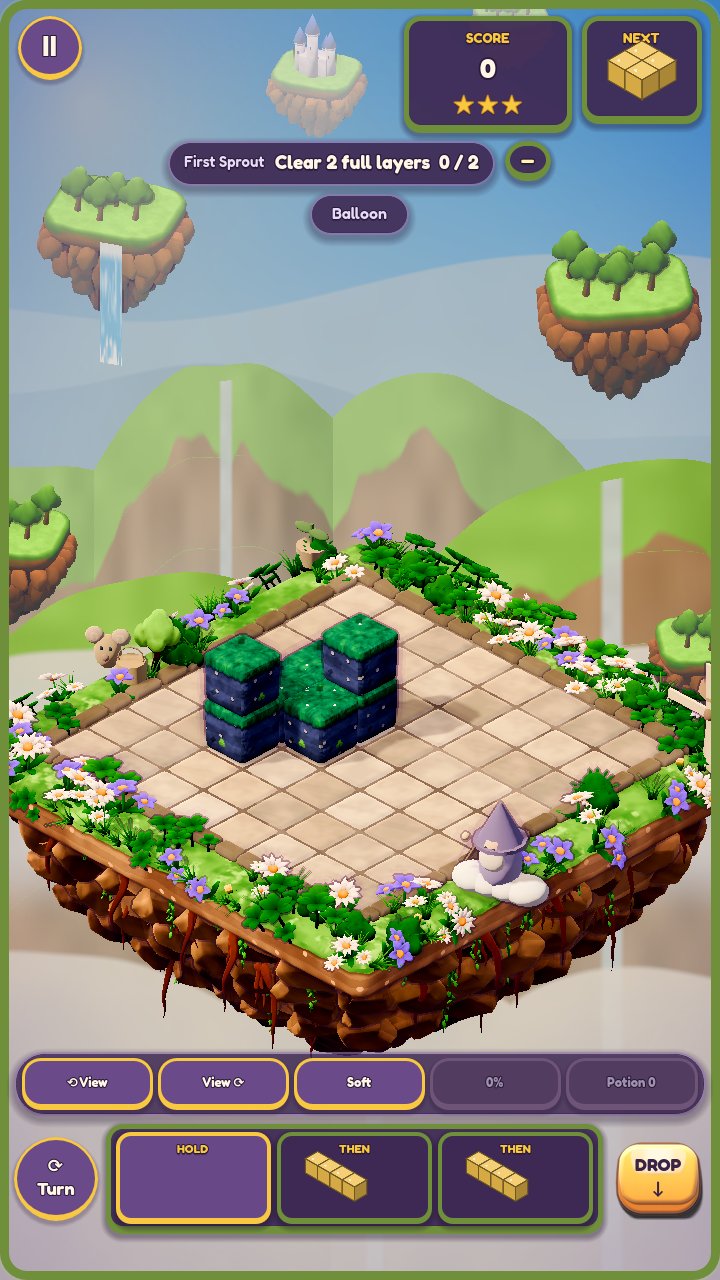
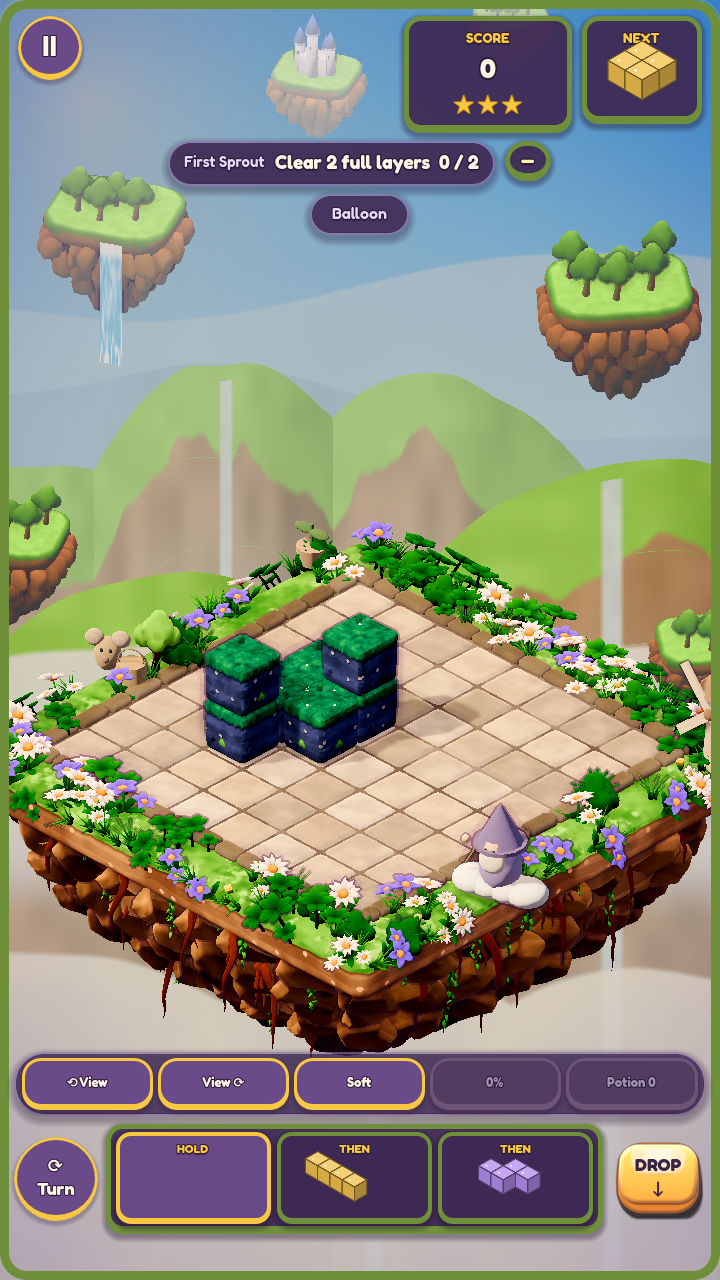
docs(minigames): party-game rules for minigames and level phases
3-second teach, standard controls with at most one extra verb, built on
stacking, scene arenas, 1v3 balance numbers, handicaps, a shared seeded
bag, rotating verbs; plus architecture rules (data templates,
tournament state outside the minigame, dynamic input routing,
background loading, a single group camera). Linked from the plan.

Story: user request 2026-10-14 (/godot-genre-party)

Claude-Session: https://claude.ai/code/session_015gA98JmmjSJ5ZLv762bPy3

diff --git a/design/narrative/campaign-story.md b/design/narrative/campaign-story.md
@@ -33,7 +33,7 @@ the next piece waits at the brim). His showy hands cannot place them true. You c
 
 **Why the order matters.** Huffle's huff blew the Keystones outward in a spiral, nearest first. Each Keystone you set hums one
 more note of the **Sky Lullaby** and its Tether points to the next island. The order is Meadow to Carnival because that is the
-order the wind dropped them, and because Huffle's own lullaby is the last note.
+order the wind dropped them (Pirate Cove, flung farthest out to sea, is eleventh), and because Huffle's own lullaby is the last note.
 
 **Why it is not an errand quest.** Every chapter has its own villain with a stacking problem, a local ally and a feeling. The
 Keystone is a payoff, never the plot of a level.
@@ -44,14 +44,15 @@ Keystone is a payoff, never the plot of a level.
 
 | Ch | Beat |
 |---|---|
-| 1-5 | Cheery. Blames "a sneeze" and fake-sneezes on cue. Tries to put his own star on every tower; the allies' marks win instead. |
+| 1-4 | Cheery. Blames "a sneeze" and fake-sneezes on cue. Tries to put his own star on every tower; the allies' marks win instead. |
 | 3 | Sir Shiver still guards the gate on an old order the Wizard forgot he gave. The first sign: someone is waiting for him. |
-| 5 | Meets his twin in vanity, Captain Bea, and they race for the tallest lookout. |
-| 6 | Midpoint reversal. His hat fails Bram in the crisis, and the heroes find his star stamped into the forge anvil. The sneeze story cracks. |
-| 7 | Campfire confession in the treehouse: the tower, the shooing, the lie. The heroes forgive him, wordlessly. |
-| 9 | Tries a rewind spell on Madame Cuckoo's clock. It breaks the tower clock and he slips off, ashamed, to talk to Huffle alone. |
-| 10 | Absent. The loss beat. He left his hat on the tram seat. |
-| 11 | Returns, gets shooed again, and finally listens: the baby rattle that fell from his hat is the first thing Huffle smiles at. |
+| 5 | Lava, the midpoint reversal. His hat fails Bram in the crisis, and the heroes find his star stamped into the forge anvil. The sneeze story cracks. |
+| 6 | Forest: campfire confession in the treehouse: the tower, the shooing, the lie. The heroes forgive him, wordlessly. |
+| 7 | Cave: stays with Ada and Bram on the far side of the cave-in, holding a lantern and trying to be useful. His kazoo wakes the bats. |
+| 8 | Clockwork: tries a rewind spell on Madame Cuckoo's clock. It breaks the tower clock and he slips off, ashamed, to talk to Huffle alone. |
+| 9 | Neon: absent. The loss beat. He left his hat on the tram seat. |
+| 10 | Celestial: returns, gets shooed again, and finally listens: the baby rattle that fell from his hat is the first thing Huffle smiles at. |
+| 11 | Pirate: humbled and funny. Face to face with Captain Bea, his vain twin, he starts to boast, stops himself, and helps build the shared lookout. |
 | 12 | Gives Huffle the promised gift, lets someone else ride his cloud, and lets the allies' marks stand on the wheel. |
 
 **The Hat Dip (visual running gag).** In each chapter the Wizard fishes in his hat for the fix and pulls out a wrong object, then
@@ -59,9 +60,9 @@ quietly drops it in the Wrong Sack tied to his cloud. The sack gets heavier. Nev
 
 | Ch | 1 | 2 | 3 | 4 | 5 | 6 | 7 | 8 | 9 | 10 | 11 | 12 |
 |---|---|---|---|---|---|---|---|---|---|---|---|---|
-| Wrong object | wooden spoon | single sock | trombone | teapot | frying pan | boot | umbrella | kazoo | alarm clock | nothing (Ada dips the left-behind hat) | baby rattle | a small star-carved block in a faded ribbon |
+| Wrong object | wooden spoon | single sock | trombone | teapot | boot | umbrella | kazoo | alarm clock | nothing (Ada dips the left-behind hat) | baby rattle | frying pan (he laughs; Tuppence wears it) | a small star-carved block in a faded ribbon |
 
-The ten wrong objects (spoon to alarm clock) and the rattle gather into the Great Heap in chapter 12. The right object, at last,
+The ten wrong objects (spoon, sock, trombone, teapot, boot, umbrella, kazoo, alarm clock, rattle, frying pan; Neon's empty hat adds none) gather into the Great Heap in chapter 12. The right object, at last,
 is the promised birthday block.
 
 ### 2.2 The heroes (each is a featured hero in 6 or more chapters)
@@ -70,7 +71,7 @@ The party travels together; "Who is there" in each beat lists who is on screen. 
 
 | Hero | Looks (art bible 5) | Arc | Featured chapters | Resolution |
 |---|---|---|---|---|
-| **Dame Ada** (knight, silver and red plume, shield) | earnest, brave, rule-follower with a soft heart; Stitch-style protector | believes a tower is held by rules and a straight line; fears one wobble means failure | **1** tutor, **3** cold and cared for, **5** cannon captain, **6** leads the rescue, **9** learns order is not stiffness, **10** low point ("I cannot hold the line"), **11** speaks to Huffle first, **12** | the final block wobbles and she laughs |
+| **Dame Ada** (knight, silver and red plume, shield) | earnest, brave, rule-follower with a soft heart; Stitch-style protector | believes a tower is held by rules and a straight line; fears one wobble means failure | **1** tutor, **3** cold and cared for, **5** leads the rescue, **8** learns order is not stiffness, **9** low point ("I cannot hold the line"), **10** speaks to Huffle first, **11** cannon captain, **12** | the final block wobbles and she laughs |
 | **Bram** (dwarf, ginger braids, steel helm, hammer) | gruff, cheerful smasher | solves things by breaking them; learns to build and to accept help | **2** bakery, **4** jellyfish, **6** trapped on the crust, **8** digs from the far side, **9** patience, **10** builds gently, **12** | builds the cake tier without his hammer |
 | **Sif** (elf, blond, green hood, slingshot) | curious, quick, a cheeky "borrower" | collects small shiny things because she never felt she belonged | **4** the pearls, **5** heist, **7** the secret treehouse, **8** alone in the dark, **10** gives a treasure away, **11** | the shelf of borrowed things becomes the Fair's prizes; she is home |
 

diff --git a/design/levels/plans/minigame-party-rules.md b/design/levels/plans/minigame-party-rules.md
@@ -1,0 +1,58 @@
+# Minigame and party rules (godot-genre-party)
+
+User, 2026-10-14: "help with making the minigames and levels, and let agents ask you questions."
+These rules apply `.claude/skills/godot-genre-party/SKILL.md` to Wacky Towers. Minigames are **building
+blocks inside campaign levels** (phases run by `ModulePhaseRunner`) and **random tournament rounds**
+(`assets/data/tournament/templates.json`: 36 minigame and 4 versus templates, run by
+`WtMinigameRound`). The phase 3 mechanics handbook and the phase 4 specs follow these rules. Agents
+ask the Godot master (see `.claude/docs/godot-master-consult.md`) when a rule doesn't fit.
+
+## Design rules
+
+1. **Short and intense.** A tournament round lasts 30 s to 2 min. A minigame phase inside a level
+   lasts 20 s to 90 s and ends with a story payoff (the bridge is done, the fort falls).
+2. **Teach in 3 seconds.** A looping preview plus one live-UI sentence of 12 words or fewer
+   ("Stack the planks before the river rises!"). No text tutorials.
+3. **Standard controls in every minigame.** The same move, rotate and drop as the core game. Accept
+   or Action is always the same button, and Back is always the same button. A minigame may add at
+   most **one** extra verb (dash, fire or grab), shown as a single gem button.
+4. **Built on stacking.** Every minigame is still about placing falling blocks; the twist is what the
+   stack does (bridge, fort wall, ammo, foothold, dam). This is pillar P2, "the stack is the answer".
+5. **A scene, not a grid.** The arena is a diorama (chasm, cliffs, mine, machine). The cast is on
+   stage, the set piece acts, and the HUD meter is themed (Heat, Fort HP, Altitude, Lava Rise,
+   Balance), as in refs 09–12, using only original names.
+6. **Asymmetric 1v3 needs balance.** The "one" gets more HP, an extra verb or a faster drop. Write
+   the offset as numbers in the template data, never "TBD".
+7. **Handicaps keep it social.** There is an optional per-player assist (slower gravity, a ghost
+   column, a longer preview), and rubber-banding uses the existing `rubber_band` params. It can be
+   turned off in competitive mode.
+8. **Fair randomness.** The piece order comes from a seeded bag that is shared by all players in a
+   round, so nobody gets a luckier queue. The seed is logged for replay.
+9. **Variety across a tournament.** A round draw never repeats the same template in a row, and it
+   rotates verbs (race, defend, build, destroy, survive).
+10. **Readability.** Each player's colour and portrait is on their stack. The NEXT preview is visible
+    for every player. Results show who did what in 3 seconds.
+
+## Architecture rules (see `docs/architecture/composition-guide.md`)
+
+- **Templates are data:** `templates.json` holds rules, params, verbs, the 1v3 offsets, the meter and
+  the scene id. No minigame-specific code paths in `main.gd`.
+- **Tournament state** (scores, round, players, devices) lives outside the minigame, in the existing
+  tournament or modes model. A minigame only emits `round_finished(results)`.
+- **Input:** players map to devices at runtime. No hard-coded joypad 0 or 1, and no "p1_*" actions
+  baked into the project. Handle `joy_connection_changed` by pausing.
+- **Loading:** load the next arena in the background while the 3-second preview plays. Keep arenas
+  light, and reuse the stage components (terrain, set-piece actor, cast actor).
+- **Shared screen first:** one camera fits all stacks (portrait 720x1280 first). Split-screen only
+  where a template needs it, with a per-viewport HUD.
+- **Feedback:** a global impact signal drives camera shake, the sparkle FX and audio cues, never
+  direct calls from the rules.
+
+## What the teams produce
+
+- **Phase 3 (systems designer):** a handbook entry for each minigame (verb, rules, params, 1v3
+  offsets, meter, round length, which campaign beats can host it, and which modules are missing).
+- **Phase 4 (level design):** each level that hosts a minigame phase names the template and its story
+  reason in `scene.*`.
+- **Phase 6 (builder):** the `ModulePhaseRunner`, the per-template arena scenes from the scene kit,
+  the input router and the background loader.

diff --git a/design/levels/plans/campaign-redo-plan.md b/design/levels/plans/campaign-redo-plan.md
@@ -117,3 +117,4 @@ owner revises and the gate re-runs. No phase starts before the one it depends on
   modules, animated cast, set-piece actors) for "a level is a scene, not a grid".
 - Tech debt (Anara audit, production/qa/godot-analyst-2026-10-14.md): split game_ui.gd per screen,
   remove the src/_staging trees, type the HUD snapshot, and add a handler table to main.gd.
+- 2026-10-14: minigames follow `design/levels/plans/minigame-party-rules.md` (godot-genre-party), with agents asking the Godot master when unsure (user).
